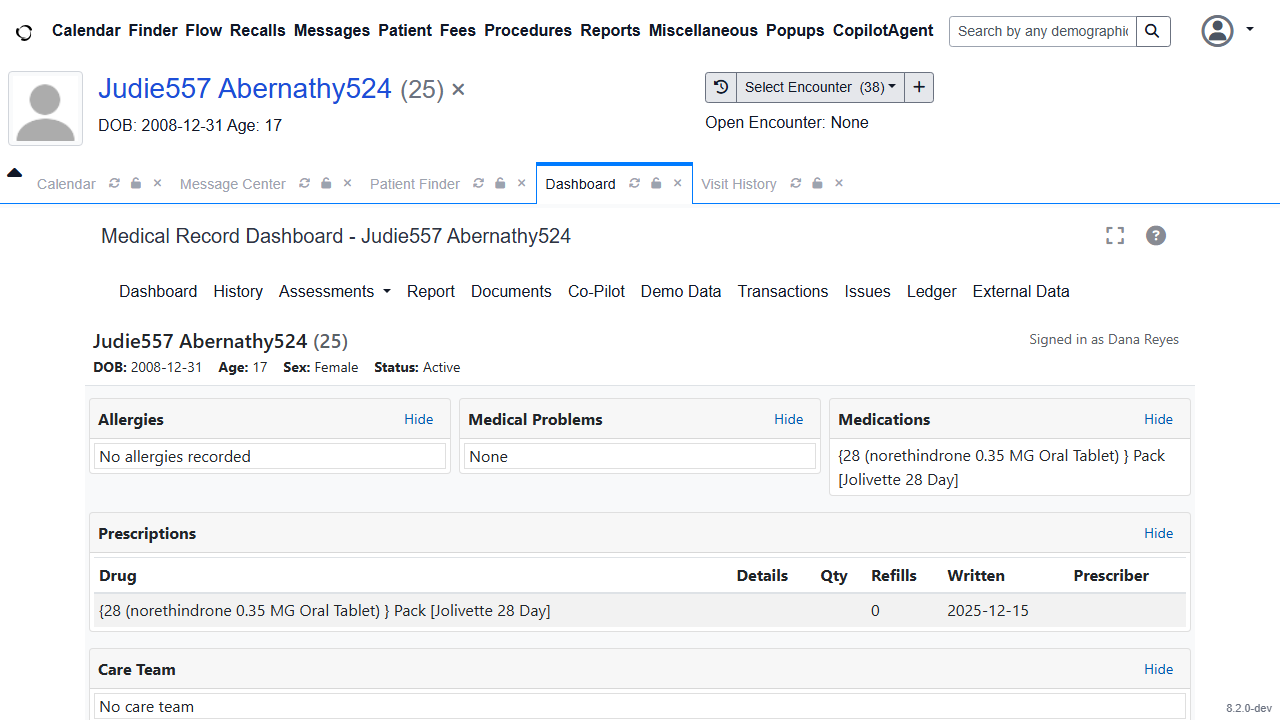
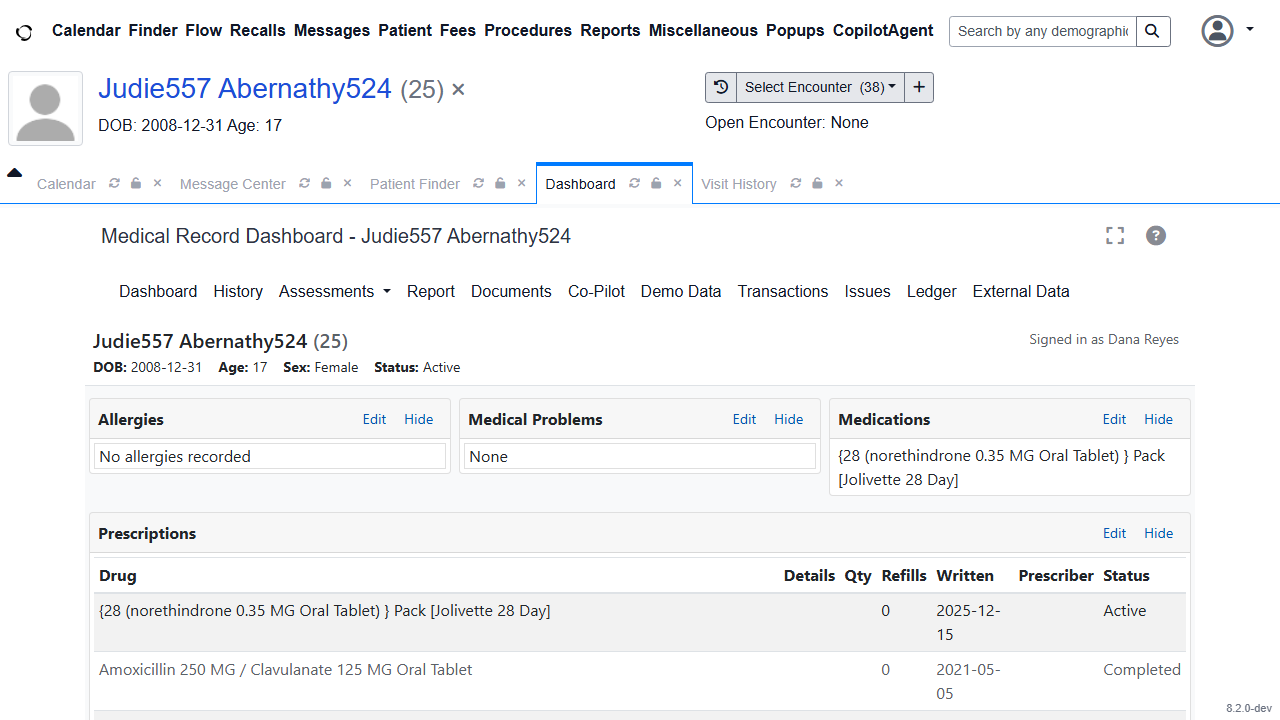
feat(dashboard): open the legacy editors from the new cards in the chart
The legacy cards' Edit buttons open OpenEMR's editors; the new cards did
not, which broke parity for doctors. In the chart, Allergies, Problems
and Medications now open stats_full.php for their issue type, and
Prescriptions opens the prescription editor dialog (eRx compose when eRx
is on), under the legacy rules: the first three always, Prescriptions
only with patients/rx write or addonly.

demographics.php builds every URL and lists the granted actions on the
app's frame. The app's button only posts the action's name to its parent;
the page honours a message only from its own frame, on its own origin,
naming a granted action. Writes stay in OpenEMR's editors and their
permission checks; the app still sends GET only (R2). Standalone there
is no OpenEMR session, so no Edit.

Tests: 3 unit (grants, no Edit outside the chart, click posts only the
action) and 6 browser (each editor opens for the patient; unknown, URL,
outside-the-frame and wrong-type messages open nothing; the latter fails
with the frame check removed). Existing in-chart suite 9/9.

Assisted-by: Claude Code

diff --git a/dashboard/e2e/in-chart-edit.spec.ts b/dashboard/e2e/in-chart-edit.spec.ts
@@ -1,0 +1,76 @@
+// Edit in the chart (option A): the app's Edit buttons open the legacy editors the old cards open,
+// through the chart page, which builds every URL and honours only its own frame and a granted
+// action. Refusal paths: an unknown action, a message from outside the frame, a URL as an action.
+import { test, expect, type Frame, type Page } from "@playwright/test";
+import { signInToLegacy } from "./support/legacy";
+import { appSettled, chartFrame, embeddedApp, openViaRTop, useRenderer } from "./support/chart";
+
+const renderer = useRenderer("smart_app");
+test.beforeAll(renderer.set);
+test.afterAll(renderer.restore);
+
+const PID = 1;
+
+async function openApp(page: Page): Promise<{ chart: Frame; app: Frame }> {
+  await signInToLegacy(page);
+  await openViaRTop(page, PID);
+  const chart = await chartFrame(page, PID);
+  const app = await embeddedApp(chart);
+  await appSettled(app);
+  return { chart, app };
+}
+
+function frameMatching(page: Page, re: RegExp): Frame | undefined {
+  return page.frames().find((f) => re.test(f.url()));
+}
+
+test("the chart grants Edit as the legacy cards do, and the app shows exactly those buttons", async ({ page }) => {
+  const { chart, app } = await openApp(page);
+  const granted = ((await chart.locator("#dashboard_smart_app").getAttribute("data-edit-actions")) ?? "").split(" ").filter(Boolean).sort();
+  // doctor1 holds patients/rx write, and prescriptions are enabled on this stack.
+  expect(granted).toEqual(["allergy", "medical_problem", "medication", "prescriptions"]);
+  const shown = (await app.locator("[data-edit]").evaluateAll((els) => els.map((e) => e.getAttribute("data-edit") ?? ""))).sort();
+  expect(shown).toEqual(granted);
+  await expect(app.locator('[data-card="care-team"] [data-edit], [data-card="vitals"] [data-edit]')).toHaveCount(0);
+});
+
+for (const [card, category] of [
+  ["allergies", "allergy"],
+  ["problems", "medical_problem"],
+  ["medications", "medication"],
+] as const) {
+  test(`${card}: Edit opens the legacy issue editor for this patient`, async ({ page }) => {
+    const { app } = await openApp(page);
+    await app.locator(`[data-card="${card}"] [data-edit]`).click();
+    await expect.poll(() => frameMatching(page, new RegExp(`stats_full\\.php\\?active=all&category=${category}$`)) !== undefined, { timeout: 20000 }).toBe(true);
+  });
+}
+
+test("prescriptions: Edit opens the legacy prescription editor dialog for this patient", async ({ page }) => {
+  const { app } = await openApp(page);
+  await app.locator('[data-card="prescriptions"] [data-edit]').click();
+  await expect.poll(() => frameMatching(page, new RegExp(`controller\\.php\\?prescription&list&id=${String(PID)}(&|$)`)) !== undefined, { timeout: 20000 }).toBe(true);
+});
+
+test("an unknown action, a URL as an action, or a message from outside the app's frame opens nothing", async ({ page }) => {
+  const { chart, app } = await openApp(page);
+  const opened: string[] = [];
+  page.on("framenavigated", (f) => {
+    if (/stats_full\.php|controller\.php\?prescription|eRx\.php/.test(f.url())) opened.push(f.url());
+  });
+  // From the app's own frame: actions outside the granted set.
+  await app.evaluate(() => {
+    const post = (action: unknown) => { window.parent.postMessage({ type: "oe-dashboard-edit", action }, window.location.origin); };
+    post("bogus");
+    post("/interface/patient_file/summary/stats_full.php?active=all&category=allergy");
+    post("__proto__");
+    post(["allergy"]);
+  });
+  // A granted action, but not from the app's frame: the chart page posting to itself.
+  await chart.evaluate(() => { window.postMessage({ type: "oe-dashboard-edit", action: "allergy" }, window.location.origin); });
+  // The wrong message type from the app's frame.
+  await app.evaluate(() => { window.parent.postMessage({ type: "something-else", action: "allergy" }, window.location.origin); });
+  await page.waitForTimeout(3000);
+  expect(opened).toEqual([]);
+  await expect(chart.locator("#dashboard_smart_app")).toHaveCount(1);
+});

diff --git a/dashboard/tests/chart-edit.test.tsx b/dashboard/tests/chart-edit.test.tsx
@@ -1,0 +1,58 @@
+// Edit in the chart (option A): Edit buttons appear only inside the chart, only for actions the
+// chart granted, and a click only names the action to the parent; the app sends no write (R2).
+import { afterEach, beforeEach, describe, expect, it, vi } from "vitest";
+import { render, screen, waitFor, within } from "@testing-library/react";
+import userEvent from "@testing-library/user-event";
+import { App, makeQueryClient } from "../src/app/App";
+import type { EditAction } from "../src/app/chartEdit";
+import { server, seen, resetSeen } from "./msw";
+import { handlers, recorded, session, signedInDeps } from "./support";
+
+function renderInChart(grants: readonly EditAction[], inChart = true) {
+  const deps = { ...signedInDeps(session("p-1", inChart)), inChart: () => inChart, editActions: () => new Set(grants) };
+  return render(<App deps={deps} queryClient={makeQueryClient({ retryDelayMs: 0 })} />);
+}
+
+async function card(id: string): Promise<HTMLElement> {
+  const el = await waitFor(() => {
+    const found = document.querySelector<HTMLElement>(`[data-card="${id}"][data-state]:not([data-state="loading"])`);
+    if (!found) throw new Error(`card ${id} not settled`);
+    return found;
+  });
+  return el;
+}
+
+describe("edit in the chart", () => {
+  beforeEach(() => {
+    server.use(...handlers(recorded("pid1")));
+    resetSeen();
+  });
+  afterEach(() => {
+    vi.restoreAllMocks();
+  });
+
+  it("shows Edit on exactly the granted cards", async () => {
+    renderInChart(["allergy", "medication"]);
+    expect(within(await card("allergies")).queryByRole("button", { name: /^Edit/ })).not.toBeNull();
+    expect(within(await card("medications")).queryByRole("button", { name: /^Edit/ })).not.toBeNull();
+    expect(within(await card("problems")).queryByRole("button", { name: /^Edit/ })).toBeNull();
+    expect(within(await card("prescriptions")).queryByRole("button", { name: /^Edit/ })).toBeNull();
+    for (const id of ["care-team", "vitals"]) expect(within(await card(id)).queryByRole("button", { name: /^Edit/ })).toBeNull();
+  });
+
+  it("shows no Edit outside the chart, even when actions are offered", async () => {
+    renderInChart(["allergy", "medical_problem", "medication", "prescriptions"], false);
+    await card("allergies");
+    expect(screen.queryAllByRole("button", { name: /^Edit/ })).toEqual([]);
+  });
+
+  it("a click posts only the action name, to this origin, and the app still sends only GETs (R2)", async () => {
+    const post = vi.spyOn(window.parent, "postMessage").mockImplementation(() => undefined);
+    renderInChart(["prescriptions"]);
+    await userEvent.click(within(await card("prescriptions")).getByRole("button", { name: /^Edit/ }));
+    expect(post).toHaveBeenCalledTimes(1);
+    expect(post).toHaveBeenCalledWith({ type: "oe-dashboard-edit", action: "prescriptions" }, window.location.origin);
+    expect(seen.length).toBeGreaterThan(0);
+    expect(seen.filter((r) => r.method !== "GET")).toEqual([]);
+  });
+});

diff --git a/dashboard/src/cards/Card.tsx b/dashboard/src/cards/Card.tsx
@@ -5,6 +5,7 @@
 import { createContext, useContext, useId, useState, type ReactNode } from "react";
 import type { UseQueryResult } from "@tanstack/react-query";
 import { FhirHttpError } from "../fhir/http";
+import { ChartEditContext, requestChartEdit, type EditAction } from "../app/chartEdit";
 
 export type CardId = "allergies" | "problems" | "medications" | "prescriptions" | "care-team" | "vitals";
 
@@ -64,13 +65,17 @@ interface CardProps<T> {
   readonly unreadable?: (data: T) => number;
   /** True when the server had more entries than were read. */
   readonly truncated?: (data: T) => boolean;
+  /** The chart editor this card's Edit button opens, shown only when the chart grants it. */
+  readonly edit?: EditAction;
 }
 
-export function Card<T>({ id, title, query, isEmpty, empty, children, unreadable, truncated }: CardProps<T>) {
+export function Card<T>({ id, title, query, isEmpty, empty, children, unreadable, truncated, edit }: CardProps<T>) {
   const [collapsed, setCollapsed] = useState(() => readCollapsed(id));
   const bodyId = useId();
   const headingId = useId();
   const slots = useContext(CardSlotsContext)[id];
+  const editGrants = useContext(ChartEditContext);
+  const canEdit = edit !== undefined && editGrants.has(edit);
 
   const toggle = () => {
     setCollapsed((c) => {
@@ -126,6 +131,14 @@ export function Card<T>({ id, title, query, isEmpty, empty, children, unreadable
         <h2 id={headingId} className="h6 mb-0 font-weight-bold">
           {title}
         </h2>
+        <div>
+          {canEdit ? (
+            <button type="button" className="btn btn-sm btn-link text-decoration-none" data-edit={edit} onClick={() => {
+              requestChartEdit(edit);
+            }}>
+              Edit<span className="sr-only"> {title}</span>
+            </button>
+          ) : null}
         <button
           type="button"
           className="btn btn-sm btn-link text-decoration-none"
@@ -136,6 +149,7 @@ export function Card<T>({ id, title, query, isEmpty, empty, children, unreadable
           {collapsed ? "Show" : "Hide"}
           <span className="sr-only"> {title}</span>
         </button>
+        </div>
       </div>
       <div id={bodyId} className="card-body p-1" hidden={collapsed}>
         <div data-slot={`${id}:before`}>{slots?.before}</div>

diff --git a/dashboard/src/app/App.tsx b/dashboard/src/app/App.tsx
@@ -18,6 +18,7 @@ import { SessionProvider } from "./session";
 import { shouldRetry } from "./queries";
 import { Dashboard } from "./Dashboard";
 import { ErrorBoundary } from "./ErrorBoundary";
+import { ChartEditContext, chartEditActions, type EditAction } from "./chartEdit";
 
 type AppState =
   | { readonly kind: "launching"; readonly ehr: EhrLaunch }
@@ -35,6 +36,8 @@ export interface AppDeps {
   readonly startEhr?: (ehr: EhrLaunch) => Promise<void>;
   /** True when the chart embeds the app: it then offers no standalone sign-in. */
   readonly inChart?: () => boolean;
+  /** The chart editors the embedding chart grants this user (option A); read only inside the chart. */
+  readonly editActions?: () => ReadonlySet<EditAction>;
 }
 
 const defaultDeps: AppDeps = {
@@ -44,6 +47,7 @@ const defaultDeps: AppDeps = {
   ehrLaunch: ehrLaunchParams,
   startEhr: (ehr) => startEhrLaunch(ehr),
   inChart: () => chartPatient() !== null,
+  editActions: chartEditActions,
 };
 
 function initialState(deps: AppDeps): AppState {
@@ -84,6 +88,7 @@ export function App({ deps = defaultDeps, queryClient }: { deps?: AppDeps; query
   const [state, setState] = useState<AppState>(() => initialState(deps));
   const [client] = useState(() => queryClient ?? makeQueryClient());
   const [inChart] = useState(() => deps.inChart?.() ?? false);
+  const [editActions] = useState<ReadonlySet<EditAction>>(() => (inChart ? (deps.editActions?.() ?? new Set()) : new Set()));
 
   useEffect(() => {
     if (state.kind !== "launching") return;
@@ -156,7 +161,9 @@ export function App({ deps = defaultDeps, queryClient }: { deps?: AppDeps; query
         <ErrorBoundary>
           <QueryClientProvider client={client}>
             <SessionProvider session={state.session}>
-              <Dashboard />
+              <ChartEditContext.Provider value={state.session.inChart ? editActions : new Set()}>
+                <Dashboard />
+              </ChartEditContext.Provider>
             </SessionProvider>
           </QueryClientProvider>
         </ErrorBoundary>

diff --git a/dashboard/src/app/chartEdit.ts b/dashboard/src/app/chartEdit.ts
@@ -1,0 +1,30 @@
+// Edit in the chart (option A): inside the chart, a card's Edit button asks the chart page to open
+// the same legacy editor its old card opens. The chart page decides which actions this user gets
+// and builds every URL itself; the app only names an action from this closed set. Writes stay in
+// OpenEMR's own editors, with their own permission checks, and the app still sends only GETs (R2).
+import { createContext } from "react";
+
+export type EditAction = "allergy" | "medical_problem" | "medication" | "prescriptions";
+
+const ACTIONS: readonly EditAction[] = ["allergy", "medical_problem", "medication", "prescriptions"];
+
+export const MESSAGE_TYPE = "oe-dashboard-edit";
+
+export const ChartEditContext = createContext<ReadonlySet<EditAction>>(new Set());
+
+const isAction = (s: string): s is EditAction => (ACTIONS as readonly string[]).includes(s);
+
+/** The actions the chart page declares on this app's frame; empty outside the chart. */
+export function chartEditActions(): ReadonlySet<EditAction> {
+  try {
+    const declared = window.frameElement?.getAttribute("data-edit-actions") ?? "";
+    return new Set(declared.split(" ").filter(isAction));
+  } catch {
+    return new Set();
+  }
+}
+
+/** Asks the chart page, and only a same-origin one, to open the editor for `action`. */
+export function requestChartEdit(action: EditAction): void {
+  window.parent.postMessage({ type: MESSAGE_TYPE, action }, window.location.origin);
+}

diff --git a/dashboard/src/cards/PrescriptionsCard.tsx b/dashboard/src/cards/PrescriptionsCard.tsx
@@ -7,6 +7,7 @@ export function PrescriptionsCard() {
   const names = useReferenceNames(query.data?.value.map((p) => p.prescriberRef) ?? []);
   return (
     <Card
+      edit="prescriptions"
       id="prescriptions"
       title="Prescriptions"
       query={query}

diff --git a/dashboard/src/cards/ProblemsCard.tsx b/dashboard/src/cards/ProblemsCard.tsx
@@ -5,6 +5,7 @@ export function ProblemsCard() {
   const query = useProblems();
   return (
     <Card
+      edit="medical_problem"
       id="problems"
       title="Medical Problems"
       query={query}

diff --git a/dashboard/src/cards/MedicationsCard.tsx b/dashboard/src/cards/MedicationsCard.tsx
@@ -5,6 +5,7 @@ export function MedicationsCard() {
   const query = useMedications();
   return (
     <Card
+      edit="medication"
       id="medications"
       title="Medications"
       query={query}

diff --git a/dashboard/src/cards/AllergiesCard.tsx b/dashboard/src/cards/AllergiesCard.tsx
@@ -5,6 +5,7 @@ export function AllergiesCard() {
   const query = useAllergies();
   return (
     <Card
+      edit="allergy"
       id="allergies"
       title="Allergies"
       query={query}

diff --git a/interface/patient_file/summary/demographics.php b/interface/patient_file/summary/demographics.php
@@ -426,6 +426,28 @@ if (
 }
 $dashboardSmartApp = $dashboardPatientUuid !== '';
 
+// Edit in the chart: the app's Edit buttons open the editors the legacy cards open, under the same
+// rules. Allergies, problems and medications always offer Edit (the editor checks its own ACL);
+// prescriptions only with patients/rx write or addonly, and not when prescriptions are disabled.
+$dashboardEditActions = [];
+if ($dashboardSmartApp) {
+    $dashboardWebRoot = OEGlobalsBag::getInstance()->getWebRoot();
+    foreach (['allergy', 'medical_problem', 'medication'] as $dashboardIssueType) {
+        $dashboardEditActions[$dashboardIssueType] = [
+            'url' => $dashboardWebRoot . '/interface/patient_file/summary/stats_full.php?active=all&category=' . $dashboardIssueType,
+            'dialog' => false,
+        ];
+    }
+    if (
+        !OEGlobalsBag::getInstance()->getBoolean('disable_prescriptions')
+        && AclMain::aclCheckCore('patients', 'rx', '', ['write', 'addonly'])
+    ) {
+        $dashboardEditActions['prescriptions'] = OEGlobalsBag::getInstance()->getBoolean('erx_enable')
+            ? ['url' => $dashboardWebRoot . '/interface/eRx.php?page=compose', 'dialog' => false]
+            : ['url' => $dashboardWebRoot . '/controller.php?prescription&list&' . http_build_query(['id' => $requestedPid]), 'dialog' => true];
+    }
+}
+
 $arrOeUiSettings = [
     'page_id' => 'core.mrd',
     'heading_title' => xl('Medical Record Dashboard'),
@@ -1143,12 +1165,32 @@ $oemr_ui = new OemrUI($arrOeUiSettings);
                     'intent' => \OpenEMR\FHIR\SMART\SMARTLaunchToken::INTENT_PATIENT_DEMOGRAPHICS_DIALOG,
                 ])); ?>"
                 data-fhir-patient="<?php echo attr($dashboardPatientUuid); ?>"
+                data-edit-actions="<?php echo attr(implode(' ', array_keys($dashboardEditActions))); ?>"
                 referrerpolicy="no-referrer"></iframe>
         </div>
         <script>
             // The app fills the rest of the tab and scrolls inside it.
             (function () {
                 const frame = document.getElementById('dashboard_smart_app');
+                // Edit in the chart: the app's Edit button names an action; this page opens the
+                // same legacy editor the old card opens, from URLs built here. Only this frame, on
+                // this origin, and only an action granted above, is honoured.
+                const editors = <?php echo json_encode($dashboardEditActions, JSON_HEX_TAG | JSON_HEX_APOS | JSON_HEX_QUOT | JSON_HEX_AMP | JSON_THROW_ON_ERROR); ?>;
+                window.addEventListener('message', function (event) {
+                    if (event.origin !== window.location.origin || event.source !== frame.contentWindow) {
+                        return;
+                    }
+                    const data = event.data;
+                    if (!data || data.type !== 'oe-dashboard-edit' || typeof data.action !== 'string' || !Object.prototype.hasOwnProperty.call(editors, data.action)) {
+                        return;
+                    }
+                    const editor = editors[data.action];
+                    if (editor.dialog) {
+                        editScripts(editor.url);
+                    } else {
+                        load_location(editor.url);
+                    }
+                });
                 const fit = function () {
                     frame.style.height = Math.max(480, window.innerHeight - frame.getBoundingClientRect().top - 8) + 'px';
                 };
